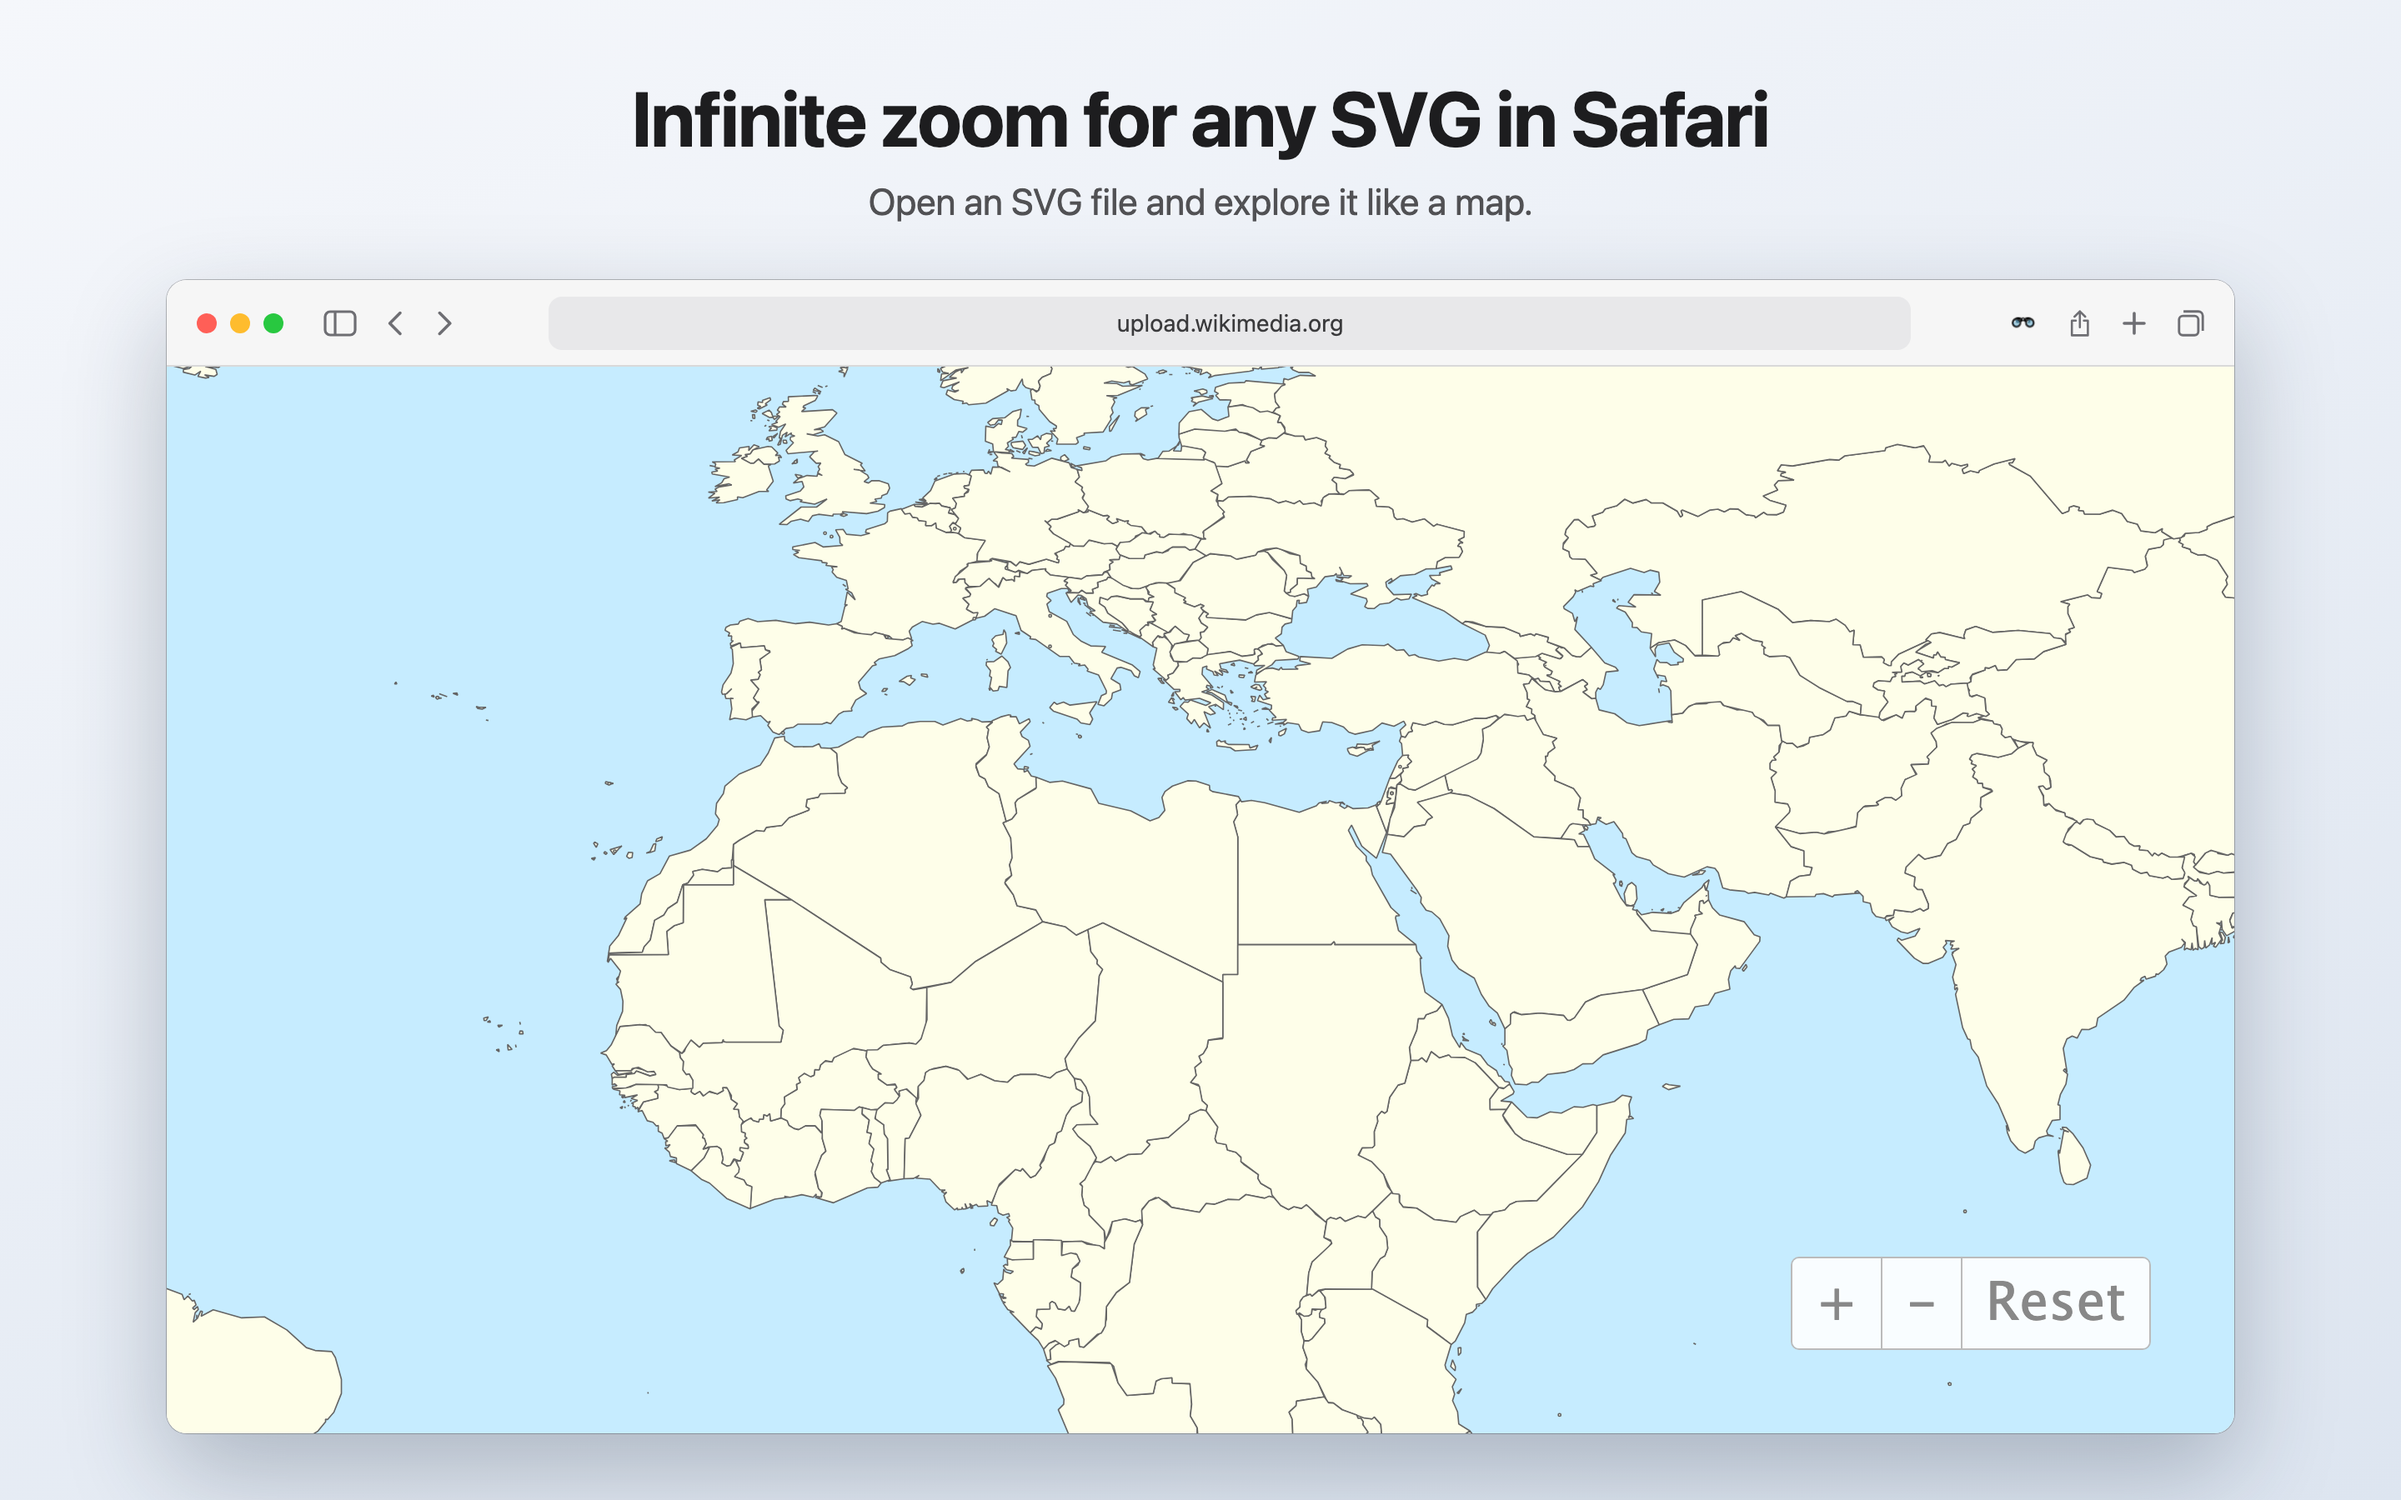
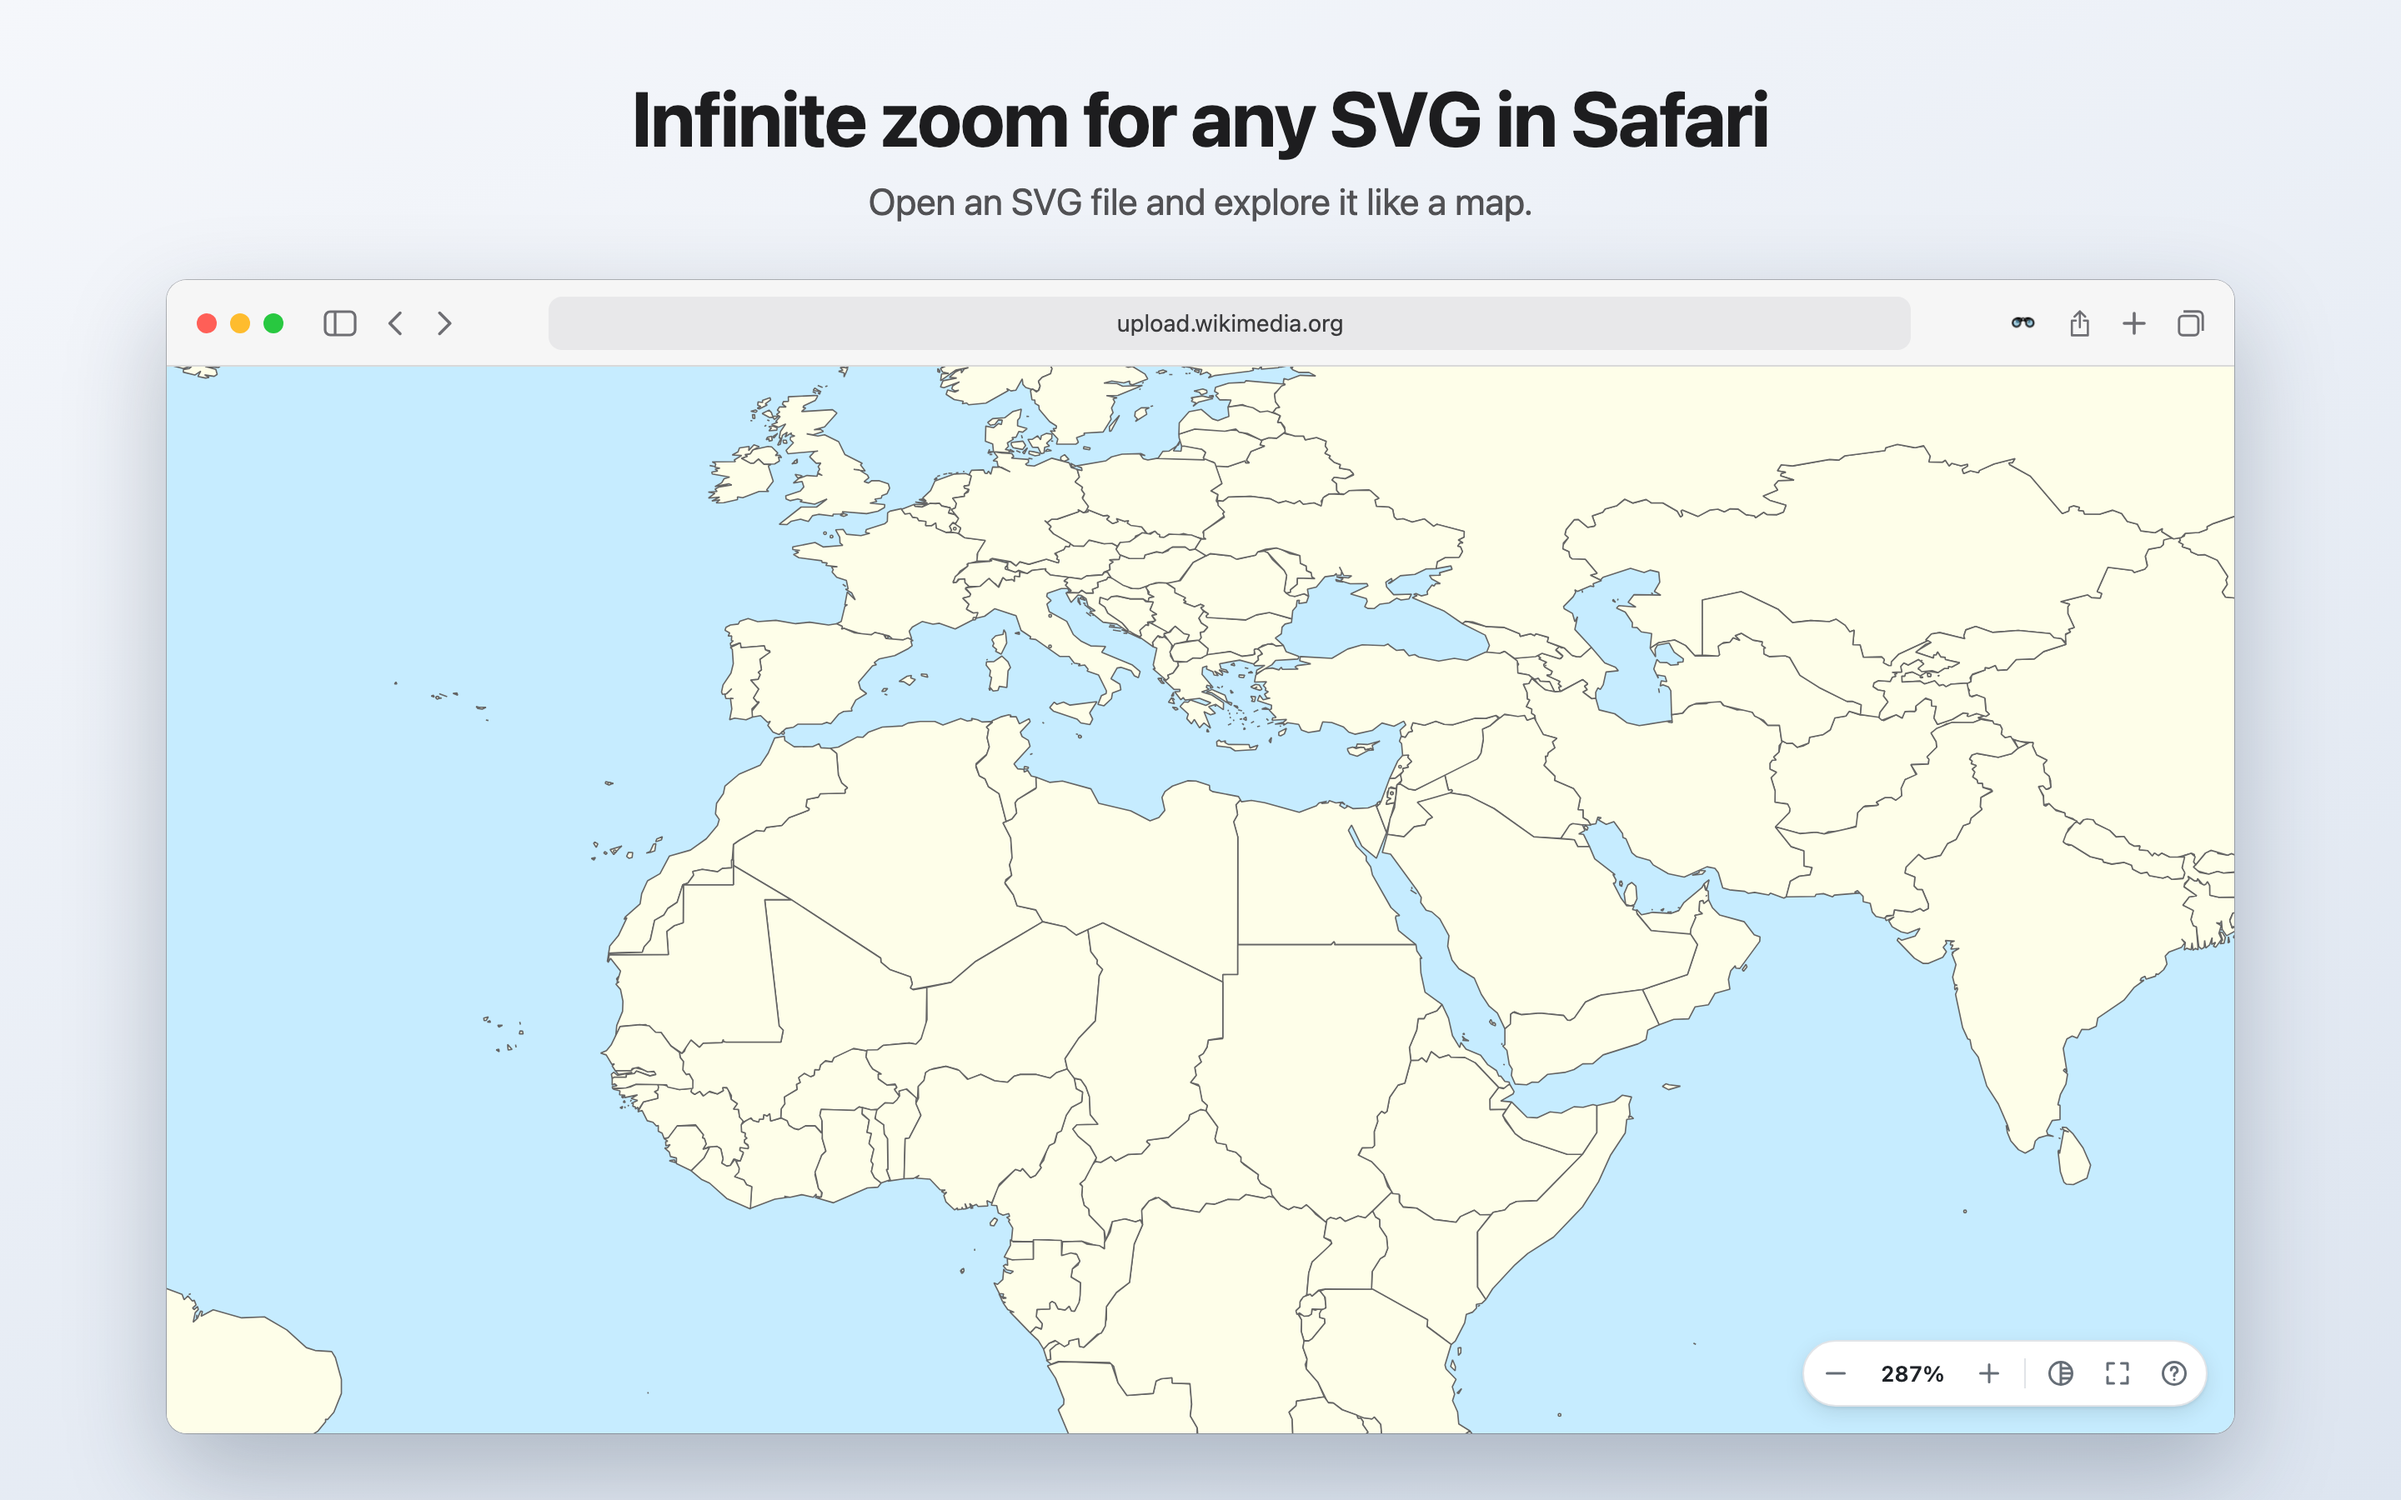
Document the new HUD and refresh the App Store screenshots
README, store listings, and AGENTS.md describe the on-screen controls;
standards-overrides.md records that the HUD follows the OS color scheme.
Screenshots regenerate deterministically with the new pill.

Changed region(s): [[0.7188, 0.84, 0.9375, 0.9644]]

diff --git a/store/web-stores.md b/store/web-stores.md
@@ -15,9 +15,9 @@ Open an SVG file and:
 • Drag to pan, or hold Space and move the pointer
 • Drag a box around exactly the area you want to see (zoom box mode)
 • Press Esc to reset the view, or Alt to zoom out
-• Use the + / − / Reset toolbar in the corner of the page
+• Use the on-screen controls to zoom, reset, switch the background, or go full screen
 
-Make it work your way from the toolbar button: choose whether click-and-drag pans or draws a zoom box, adjust scroll sensitivity or invert the scroll direction, show or auto-hide the zoom toolbar, and pick a background color for transparent SVGs.
+Make it work your way from the toolbar button: choose whether click-and-drag pans or draws a zoom box, adjust scroll sensitivity or invert the scroll direction, show, auto-hide, or reposition the on-screen controls, and pick a background color for transparent SVGs.
 
 SVG Navigator works on SVG files from any website, including ones served without a .svg file name. It leaves other pages alone, collects no data, and makes no network requests. To use it on local files, turn on "Allow access to file URLs" for SVG Navigator in chrome://extensions.
 
@@ -37,9 +37,9 @@ Open an SVG file and:
 * Drag to pan, or hold Space and move the pointer
 * Drag a box around exactly the area you want to see (zoom box mode)
 * Press Esc to reset the view, or Alt to zoom out
-* Use the + / − / Reset toolbar in the corner of the page
+* Use the on-screen controls to zoom, reset, switch the background, or go full screen
 
-Make it work your way from the toolbar button: choose whether click-and-drag pans or draws a zoom box, adjust scroll sensitivity or invert the scroll direction, show or auto-hide the zoom toolbar, and pick a background color for transparent SVGs.
+Make it work your way from the toolbar button: choose whether click-and-drag pans or draws a zoom box, adjust scroll sensitivity or invert the scroll direction, show, auto-hide, or reposition the on-screen controls, and pick a background color for transparent SVGs.
 
 SVG Navigator works on SVG files from any website, including ones served without a .svg file name. It leaves other pages alone, collects no data, and makes no network requests.
 

diff --git a/standards-overrides.md b/standards-overrides.md
@@ -8,6 +8,7 @@ Use this file to record deliberate deviations from the canonical coding and arch
 | ---------------------------------------------------------------- | ---------------------------------------------------------------------------------------------------------------------- | ---------------------------------------------------------------------------------------------------------------------------------------------------------------------------------------------------------------------- | ----------------- | ----------- |
 | `core/frontend-ui.md`: Default Frontend Experiences To Dark Mode | The settings popup follows the browser and OS color scheme (`color-scheme: light dark`) instead of defaulting to dark. | A browser toolbar popup sits inside the browser's own chrome; matching the user's chosen theme is the platform convention, and a dark popup under a light browser looks broken. Dark users already get the dark theme. | Peter Ryszkiewicz | 2027-04-07  |
 | `core/frontend-ui.md`: Default Frontend Experiences To Dark Mode | SVGs open on a white background by default (`svgBackgroundColor: 'white'`); users can change it in the popup.          | Most SVGs on the web assume a white page: black strokes and text with no background of their own become unreadable on dark. The background is a viewing aid for someone else's artwork, not app chrome.                | Peter Ryszkiewicz | 2027-04-07  |
+| `core/frontend-ui.md`: Default Frontend Experiences To Dark Mode | The on-page HUD and debug card follow the OS color scheme (`prefers-color-scheme`) instead of defaulting to dark. | They float over someone else's artwork beside the browser's own chrome; matching the user's theme keeps them consistent with the settings popup, and dark users already get the dark theme. | Peter Ryszkiewicz | 2027-04-07 |
 
 ## Notes
 

diff --git a/README.md b/README.md
@@ -24,6 +24,8 @@ Go to a website with an SVG file. The extension begins working on the SVG graphi
 - Zoom: click and drag a zoom box of the desired area if enabled
 - Zoom out: tap alt key
 - Reset zoom: press escape
+- On-screen controls: zoom out, the zoom level (click it to reset), zoom in, background, full screen, and a
+  shortcuts list; choose their corner or edge, or turn them off, in the settings
 
 SVGs are vector graphics, so they stay sharp however far you zoom in. SVG Navigator has no zoom
 limit; only the browser's numeric precision stops it, many millions of times in.
@@ -187,7 +189,8 @@ The extension is written in TypeScript:
 
 - `src/js/svgNavigator.ts`: the content script that adds infinite zoom and panning to SVG documents
 - `src/js/viewBox.ts`: the pure viewBox geometry (parsing, fitting, zooming) the content script uses, unit tested
-- `src/js/toolbar.ts`: the floating +, -, and Reset toolbar
+- `src/js/hud/`: the on-screen controls and debug card, in a shadow root on `<svg-navigator-hud>`; the pure
+  parts (`layout`, `zoomLabel`, `visibility`, `backgroundCycle`, `debugInfo`, `shortcuts`) are unit tested
 - `src/options/`: the toolbar popup with the settings (`index.html`, `options.ts`, `options.css`)
 - `src/shared/settings.ts`: the settings, their defaults, and their storage in `chrome.storage.sync`
 - `src/shared/provenance.ts`: the version, commit, and build time shown in the popup footer; `bun run prebuild`

diff --git a/AGENTS.md b/AGENTS.md
@@ -10,6 +10,8 @@
 - Bump the version only in `src/manifest.json`. `bun run prebuild` generates `src/js/buildInfo.ts` (gitignored) and `safari/Version.xcconfig` from it.
 - In a standalone SVG page, `document` is an XML document: build HTML UI from the wrapper `htmlDoc` in `src/js/svgNavigator.ts`, never `document.createElement`.
 - Firefox runs through WebDriver BiDi, which has its own quirks; the workarounds are commented in `test/e2e/harness.ts` and `test/e2e/navigator.test.ts`.
+- The HUD (`src/js/hud/`) lives in an open shadow root on `<svg-navigator-hud>`; E2E tests reach inside with the `hudElement` helpers in `test/e2e/harness.ts`, not `page.$`.
+- `tsconfig.node.json` uses bundler resolution because unit tests import extension modules whose relative imports omit file extensions.
 - `bun run screenshots:app-store` regenerates `store/app-store/screenshots/` deterministically; an unrelated change should leave them byte-identical.
 - Releases: push a `vX.Y` tag that matches `src/manifest.json`. See "Releasing" in `README.md`.
 - `scripts/bright-builds-check.ts` is managed upstream and excluded from the type check and ESLint; do not edit it.

diff --git a/store/app-store/listing.md b/store/app-store/listing.md
@@ -51,12 +51,12 @@ Open an SVG file and:
 • Drag to pan, or hold Space and move the pointer
 • Drag a box around exactly the area you want to see (zoom box mode)
 • Press Esc to reset the view, or Option to zoom out
-• Use the + / − / Reset toolbar in the corner of the page
+• Use the on-screen controls to zoom, reset, switch the background, or go full screen
 
 Make it work your way from the toolbar button:
 • Choose whether click-and-drag pans or draws a zoom box
 • Adjust scroll sensitivity, or invert the scroll direction
-• Show or hide the zoom toolbar, and let it fade out when you don't need it
+• Show, hide, or move the on-screen controls, and let them fade out when you don't need them
 • Pick a background color for transparent SVGs
 
 SVG Navigator works on SVG files from any website, including ones served without a .svg file name. It leaves other pages alone.
